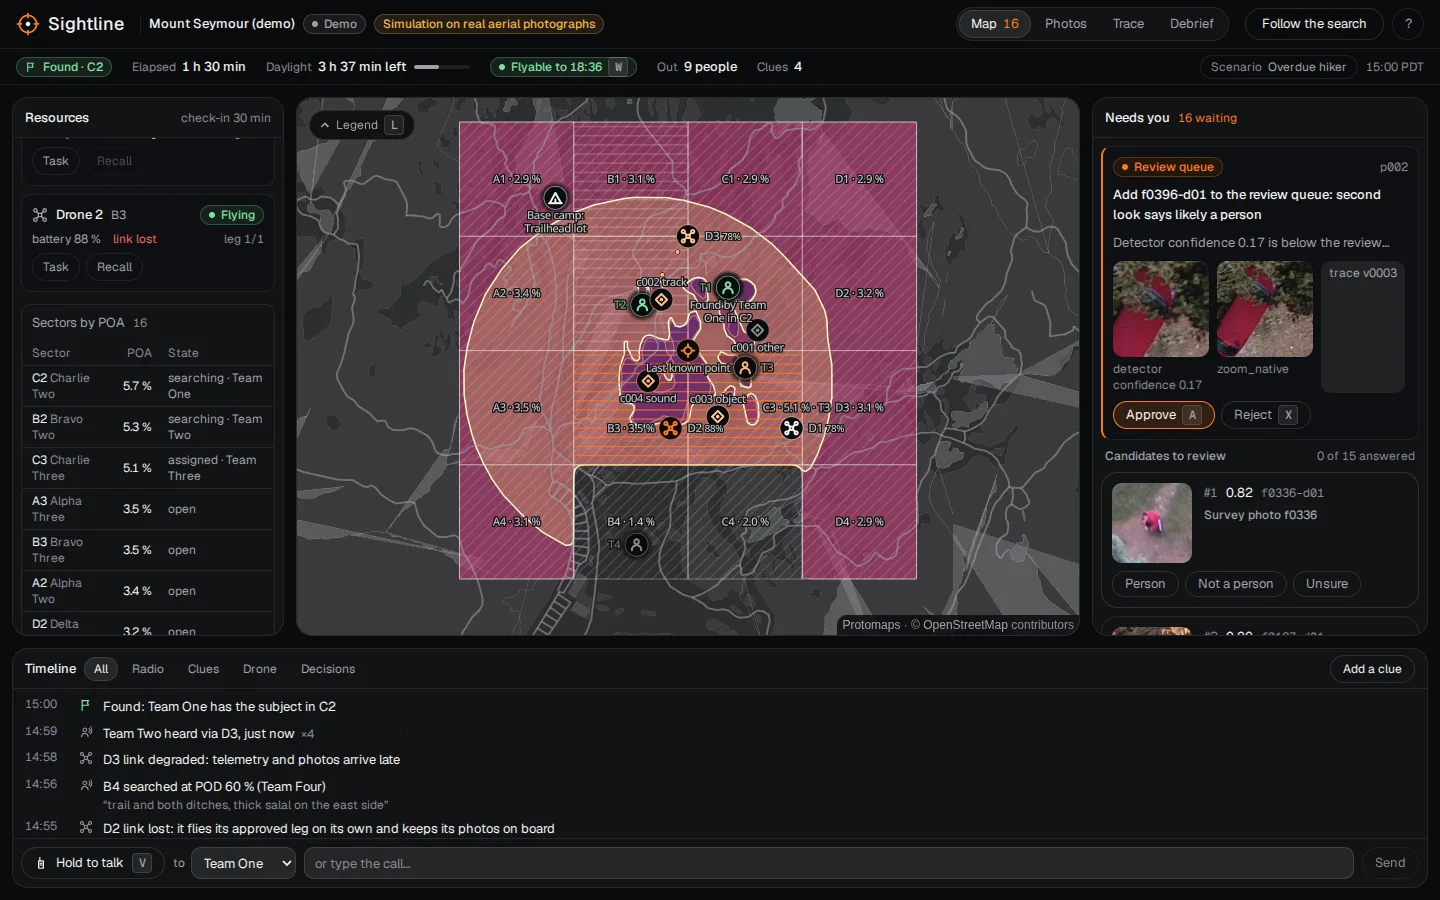
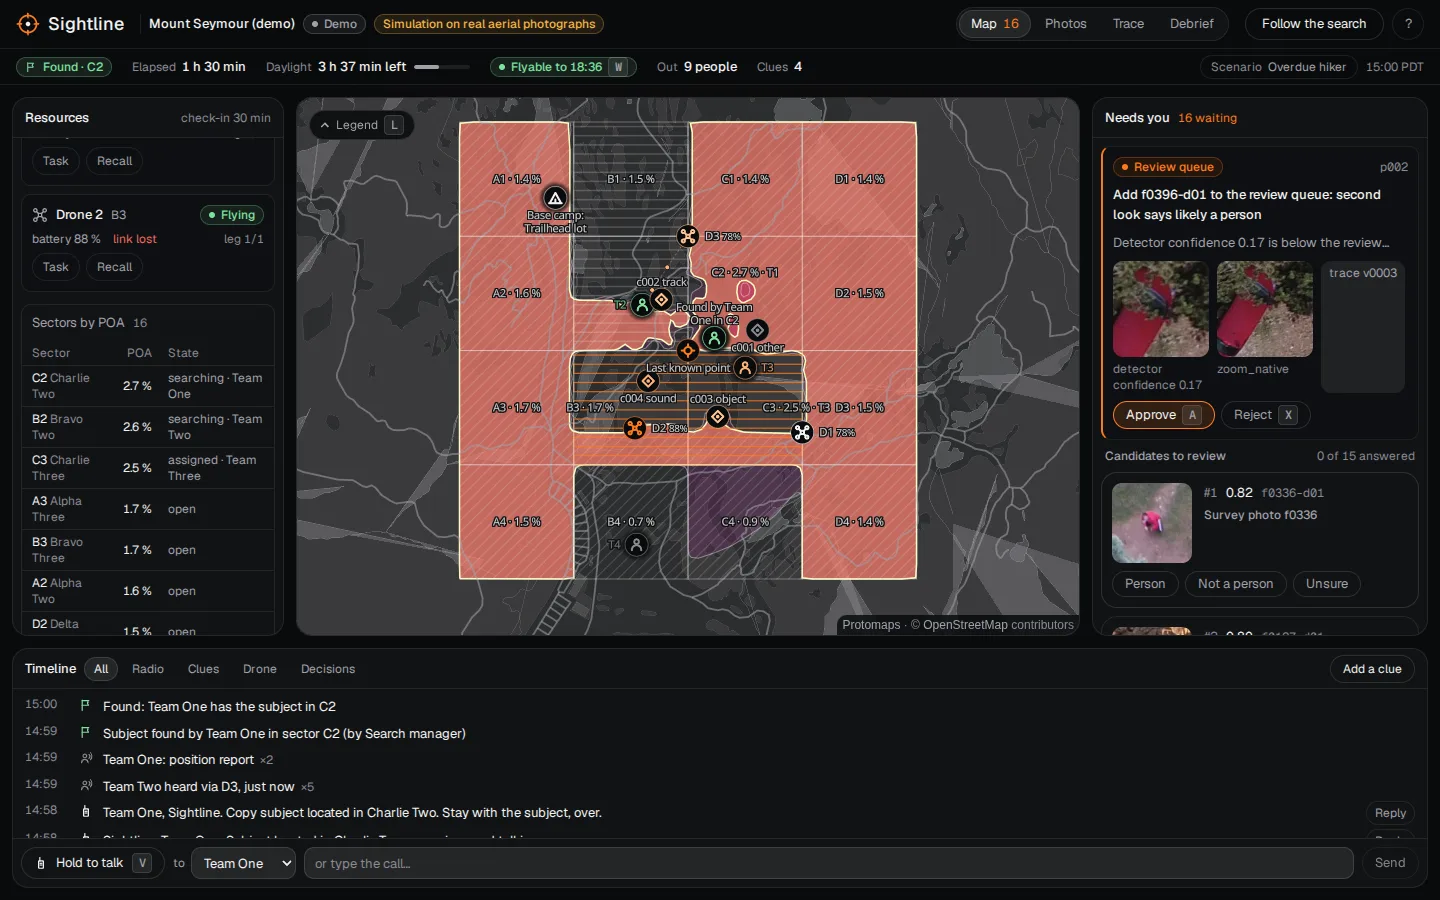
Timeline: the demo's per-line notes left to the disclosure chip; with a server timeline the events add only the console's own actions and what is newer; screenshots on the regenerated fixture

Changed region(s): [[0.3125, 0.1244, 0.6562, 0.6533], [0.0, 0.8089, 0.4062, 0.9333], [0.0625, 0.1556, 0.0938, 0.1867]]

diff --git a/web/src/command/timeline.test.ts b/web/src/command/timeline.test.ts
@@ -1,6 +1,6 @@
 import { describe, expect, it } from "vitest";
 import type { Clue, MissionEvent, Proposal, SectorTask, Team, TimelineEvent } from "../contract";
-import { buildTimeline, fromEvent, inFilter, teamOf } from "./timeline";
+import { buildTimeline, fromEvent, inFilter, plain, teamOf } from "./timeline";
 
 const AT = "2026-10-24T21:40:00Z";
 const TEAMS = [{ id: "T1", callsign: "Team One" }, { id: "T2", callsign: "Team Two" }] as Team[];
@@ -48,8 +48,16 @@ describe("the timeline", () => {
 
   it("shows the server's timeline, and the events it does not cover (a direct action just taken)", () => {
     const server: TimelineEvent[] = [{ id: "e9", at: AT, kind: "found", team: "Team One", sector: "C2", text: "Team One has the subject in C2", refs: [] }];
-    const t = buildTimeline([ev("e9", "radio.turn", turn("in", "Team One", "on scene")), ev("e1", "radio.turn", turn("in", "Team Two", "hello"))], TEAMS, server);
-    expect(t.map((e) => [e.id, e.kind, e.team])).toEqual([["e9", "found", "T1"], ["e1", "radio", "T2"]]); // e9 is the server's; e1 it has not sent
+    const t = buildTimeline([ev("e9", "radio.turn", turn("in", "Team One", "on scene")), ev("u1", "radio.turn", turn("in", "Team Two", "hello"))], TEAMS, server);
+    expect(t.map((e) => [e.id, e.kind, e.team])).toEqual([["u1", "radio", "T2"], ["e9", "found", "T1"]]); // e9 is the server's; u1 (the console's own) it has not sent
     expect(teamOf(TEAMS, "team two")).toBe("T2");
+  });
+});
+
+describe("the demo's per-line notes", () => {
+  it("are left to the one disclosure chip", () => {
+    expect(plain("Subject found by Team One in sector C2 (by Search manager (scripted for the demo fixture))")).toBe("Subject found by Team One in sector C2 (by Search manager)");
+    expect(plain("Sightline, Team One. Subject located, over. (typed for the demo fixture)")).toBe("Sightline, Team One. Subject located, over.");
+    expect(plain("Team Two heard via D3, just now (simulated relay)")).toBe("Team Two heard via D3, just now");
   });
 });

diff --git a/web/src/command/timeline.ts b/web/src/command/timeline.ts
@@ -127,10 +127,13 @@ export function fromEvent(e: MissionEvent, teams: readonly Team[]): Entry | null
   }
 }
 
+/** The demo's per-line notes ("scripted for the demo fixture", "simulated relay"): the one disclosure chip says it once. */
+export const plain = (text: string) => text.replace(/\s*\((?:scripted|typed) for the demo fixture\)/g, "").replace(/\s*\(simulated(?: [a-z ]+)?\)/g, "").trim();
+
 /** A server's timeline entry as the console shows it. */
 export function fromTimeline(e: TimelineEvent, i: number, teams: readonly Team[], turns: readonly RadioTurn[] = []): Entry {
   return entry({
-    id: e.id ?? `t${i}`, at: e.at, kind: e.kind, team: teamOf(teams, e.team), sector: e.sector ?? null, text: e.text, refs: e.refs ?? [],
+    id: e.id ?? `t${i}`, at: e.at, kind: e.kind, team: teamOf(teams, e.team), sector: e.sector ?? null, text: plain(e.text), refs: e.refs ?? [],
     turn: e.turn_id ? (turns.find((t) => t.id === e.turn_id) ?? null) : null,
   });
 }
@@ -147,7 +150,11 @@ export function buildTimeline(events: readonly MissionEvent[], teams: readonly T
   const derived = events.map((e) => fromEvent(e, teams)).filter((x): x is Entry => x !== null);
   const byId = new Map(derived.map((e) => [e.id, e]));
   for (const e of fromServer) if (!e.detail) e.detail = byId.get(e.id)?.detail ?? null;
-  const all = [...fromServer, ...derived.filter((e) => !known.has(e.id))];
+  // with a server timeline, the events add only what it cannot have yet: the console's own actions (the
+  // demo's are "u…"), or anything newer than its last line
+  const last = server.reduce((m, e) => (e.at > m ? e.at : m), "");
+  const fresh = (e: Entry) => !server.length || (!known.has(e.id) && (e.id.startsWith("u") || e.at > last));
+  const all = [...fromServer, ...derived.filter(fresh)];
   return merge(all.sort((a, b) => b.at.localeCompare(a.at) || b.id.localeCompare(a.id)));
 }
 

diff --git a/web/src/ingest/ingest.test.tsx b/web/src/ingest/ingest.test.tsx
@@ -305,7 +305,7 @@ describe("the demo mission: the story on the one console", () => {
     const card = await screen.findByLabelText("Proposal p003");
     await userEvent.click(within(card).getByRole("button", { name: /Approve/ }));
     expect(await screen.findByRole("dialog", { name: "The story, 4 of 5" })).toHaveTextContent("searched at POD 60 %");
-    expect(await screen.findByText("B4 searched at POD 60 % (Team Four)")).toBeInTheDocument();
+    expect(await screen.findByText(/Sector B4 searched at POD 60%/)).toBeInTheDocument();
     expect(screen.getByRole("group", { name: "Mission time" })).toBeInTheDocument(); // inside the story, the scrubber
     await userEvent.click(screen.getByRole("button", { name: "Next" }));
     expect(await screen.findByRole("dialog", { name: "The story, 5 of 5" })).toBeInTheDocument();
